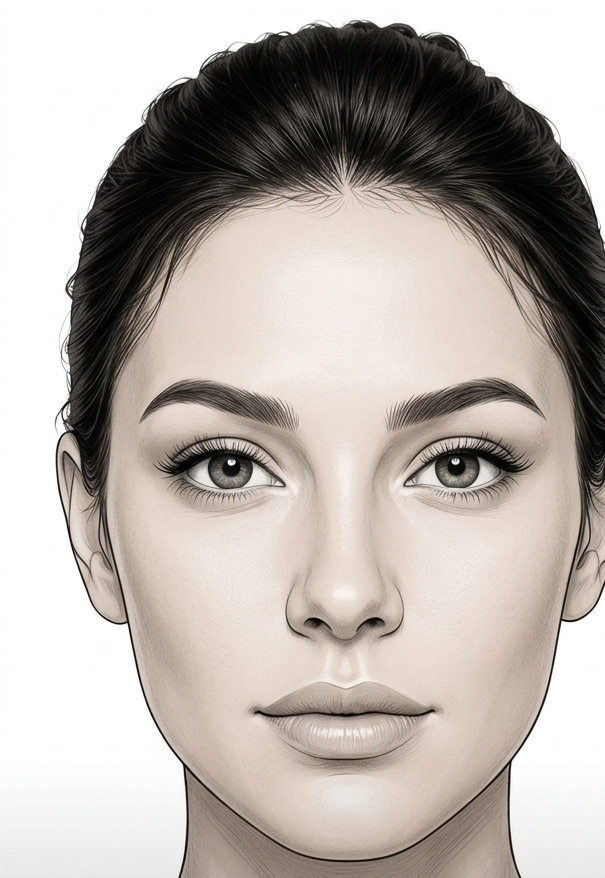
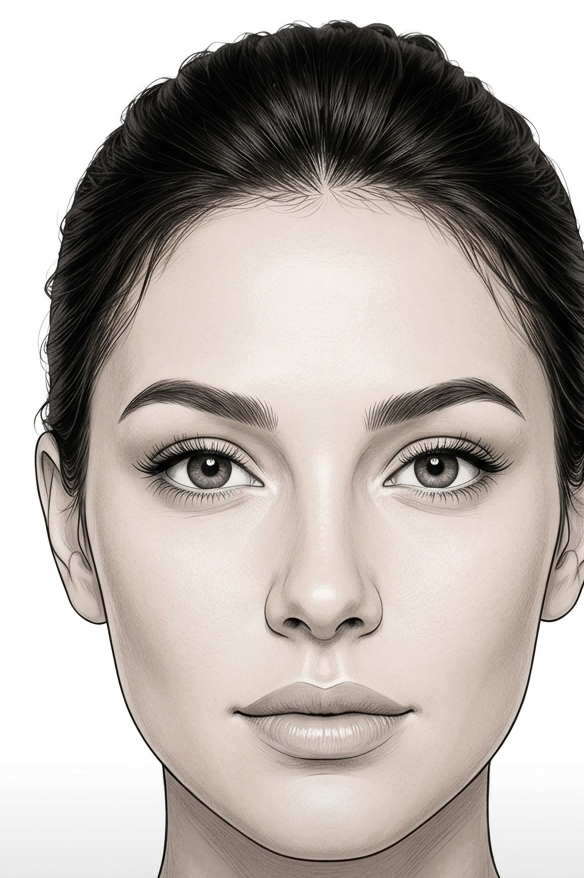
fix: centraliza o rosto no mapa facial
A imagem do rosto estava com o recorte deslocado ~21px pra
esquerda em relação ao centro do rosto real. Recortada de novo
(584x878, mesma foto) e recalibradas as zonas nomeadas e o centro
de referência das etiquetas pra bater com o novo enquadramento.

diff --git a/src/components/MapaFacial.tsx b/src/components/MapaFacial.tsx
@@ -16,25 +16,25 @@ const DOSES_RAPIDAS = [1, 2, 2.5, 4, 5, 10]
 // ponto, a zona mais próxima do toque vira o "nome" que aparece na lista —
 // assim a lista fica legível (ex: "Glabela") em vez de coordenada crua.
 const ZONAS = [
-  { nome: 'Fronte D', x: 33, y: 26 },
-  { nome: 'Fronte C', x: 50, y: 22 },
-  { nome: 'Fronte E', x: 67, y: 26 },
-  { nome: 'Glabela', x: 50, y: 44 },
-  { nome: 'Pé de galinha D', x: 22, y: 54 },
-  { nome: 'Pé de galinha E', x: 78, y: 54 },
-  { nome: 'Maçã do rosto D', x: 21, y: 63 },
-  { nome: 'Maçã do rosto E', x: 79, y: 63 },
-  { nome: 'Bigode chinês D', x: 34, y: 74 },
-  { nome: 'Bigode chinês E', x: 66, y: 74 },
-  { nome: 'Lábio superior', x: 50, y: 78 },
-  { nome: 'Mandíbula D', x: 18, y: 90 },
-  { nome: 'Mandíbula E', x: 82, y: 90 },
-  { nome: 'Queixo', x: 50, y: 94 },
+  { nome: 'Fronte D', x: 30.6, y: 26 },
+  { nome: 'Fronte C', x: 48.2, y: 22 },
+  { nome: 'Fronte E', x: 65.8, y: 26 },
+  { nome: 'Glabela', x: 48.2, y: 44 },
+  { nome: 'Pé de galinha D', x: 19.2, y: 54 },
+  { nome: 'Pé de galinha E', x: 77.2, y: 54 },
+  { nome: 'Maçã do rosto D', x: 18.2, y: 63 },
+  { nome: 'Maçã do rosto E', x: 78.2, y: 63 },
+  { nome: 'Bigode chinês D', x: 31.6, y: 74 },
+  { nome: 'Bigode chinês E', x: 64.8, y: 74 },
+  { nome: 'Lábio superior', x: 48.2, y: 78 },
+  { nome: 'Mandíbula D', x: 15.1, y: 90 },
+  { nome: 'Mandíbula E', x: 81.4, y: 90 },
+  { nome: 'Queixo', x: 48.2, y: 94 },
 ] as const
 
 // Centro aproximado do rosto — as etiquetas de dose saem radialmente pra fora
 // a partir daqui, com uma linha-guia, pra não ficar tudo empilhado no rosto.
-const CENTRO_X = 50
+const CENTRO_X = 48.2
 const CENTRO_Y = 55
 
 function infoProduto(produto: string) {
@@ -297,7 +297,7 @@ export default function MapaFacial({ patientId, aplicacoes, onAdd, onDelete, can
           ref={containerRef}
           onClick={handleFaceClick}
           className="relative bg-[#fbf7f3] rounded-xl border border-gray-200 overflow-hidden select-none cursor-crosshair touch-manipulation mx-auto shadow-[0_8px_30px_-8px_rgba(15,23,42,0.15)]"
-          style={{ aspectRatio: '605/878', maxWidth: 480 }}
+          style={{ aspectRatio: '584/878', maxWidth: 480 }}
         >
           <img
             src={rostoFoto}